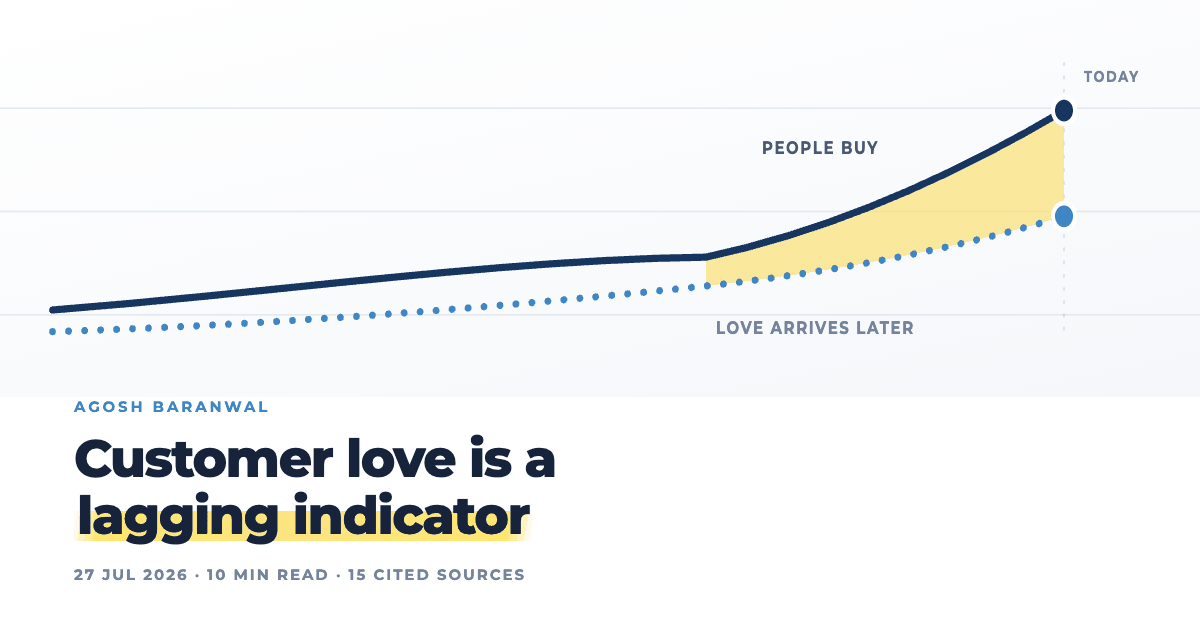
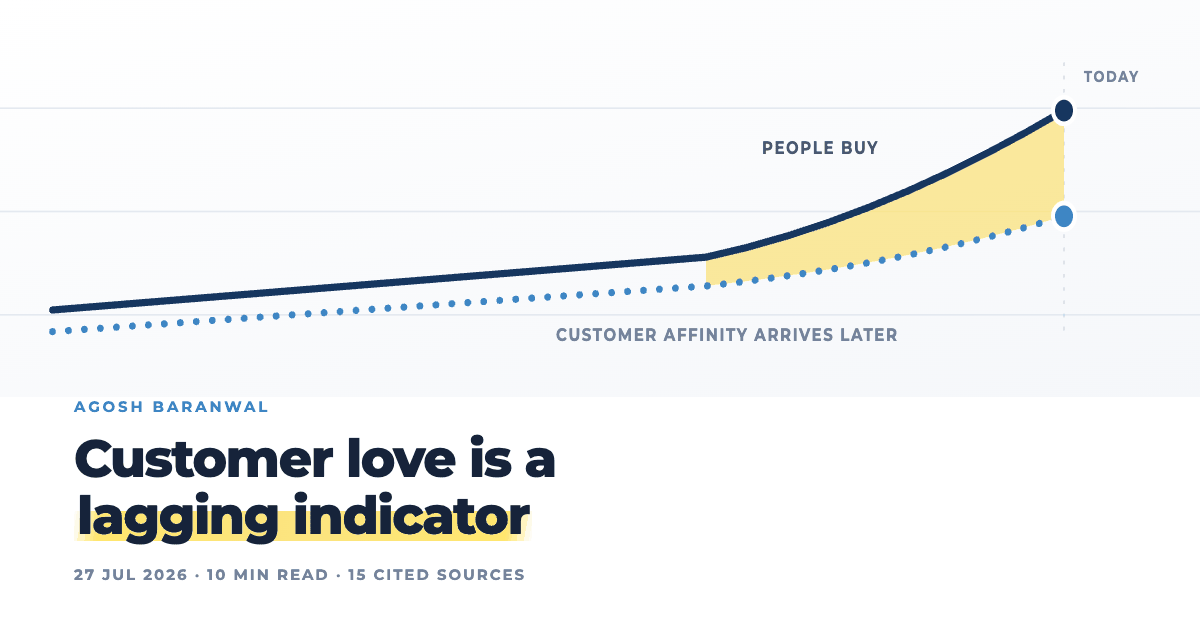
Plainer copy, a straight line before the inflection, and a notice about what is missing
Three things Agosh asked for.

Plain copy, and stop restating the obvious
"Events I have organised" is now "Events organised": on his own site the first
person is already given. The same reading applied everywhere else, so four lead
lines that only restated what the section already showed are gone (the figures
already print their company and period; the two lanes are already labelled
Companies and Education; the press rows already sit under a heading reading
Press). What is left says something the reader cannot see for themselves.

The lines that were punchy rather than informative were rewritten. The contact
block now says what he is open to instead of pitching it. The blog deck dropped
"written against the evidence" for "with every source listed", which is the same
claim stated as a fact. On the Witness page, "Four calls that shaped it" became
"Four design decisions", "Four rooms, and no others" became "The four rooms",
"The week it runs on" became "The weekly loop", and the swipes at other habit
apps came out.

The blog cover
Both lines now run straight to the inflection at x=544 and only bend after it,
so the break is the drawing's subject rather than one curve among several.
"LOVE ARRIVES LATER" reads "CUSTOMER AFFINITY ARRIVES LATER" and moved left to
clear the TODAY marker. og-customer-love.png was redrawn to match.

The notice
A quiet strip under the masthead saying that some parts are unfinished and
[…]

Changed region(s): [[0.0925, 0.3921, 0.5858, 0.5429], [0.4625, 0.5127, 0.7708, 0.5429]]

diff --git a/index.html b/index.html
@@ -44,6 +44,13 @@
 		</header>
 		<main id="main">
 			<div class="wrap">
+				<p class="notice">
+					<span class="dot" aria-hidden="true"></span>
+					<b>Apologies, some parts of this page are not finished</b>
+					<span>The photographs, the press links and a few event dates are still to come</span>
+				</p>
+			</div>
+			<div class="wrap">
 
 				<div class="hero">
 					<h1 class="sr">Agosh Baranwal</h1>
@@ -72,7 +79,6 @@
 				<section class="sec" id="results" aria-labelledby="h-results">
 					<div class="sec-h">
 						<h2 id="h-results">Results</h2>
-						<p class="lead">Each number names the company and the period, so you can ask me about any of them</p>
 					</div>
 					<div class="figs">
 						<div class="fig rv"><span class="n"><span class="hl">10x ROAS</span></span><p>My best return on ad spend</p><p class="src">eFeed &middot; India &middot; 2022&ndash;23</p></div>
@@ -84,7 +90,6 @@
 				<section class="sec" id="worked" aria-labelledby="h-worked">
 					<div class="sec-h">
 						<h2 id="h-worked">Experience and education</h2>
-						<p class="lead">Four companies across India, Sweden and Spain, and the two schools behind the work</p>
 					</div>
 					<div class="ws">
 						<div class="lane rv">
@@ -104,13 +109,13 @@
 							</div>
 						</div>
 					</div>
-					<p class="ws-note">Every role in full, with what it produced, is in the <a href="/cv">CV</a></p>
+					<p class="ws-note">The full detail of each role is in the <a href="/cv">CV</a></p>
 				</section>
 
 				<section class="sec" id="projects" aria-labelledby="h-projects">
 					<div class="sec-h">
 						<h2 id="h-projects">Personal projects</h2>
-						<p class="lead">Six things I built on my own time, and every card opens the real one</p>
+						<p class="lead">All of these were built outside work</p>
 					</div>
 					<div class="projs">
 					<a class="proj rv" href="https://admenow.vercel.app" target="_blank" rel="noopener">
@@ -157,15 +162,15 @@
 						<img class="shot" src="/previews/witness.jpg" alt="A screenshot of Witness on a phone beside its Mac panel" width="640" height="400" loading="lazy" decoding="async" />
 						<span class="body">
 							<span class="top"><span class="p-name">Witness</span><span class="st prog">Private tool</span></span>
-							<span class="p-desc">A check-in tool I built for my own days, across a phone, a browser, a Mac panel and notifications</span>
-							<span class="visit">Built for myself, so here is the tour <span class="go">See it &rarr;</span></span>
+							<span class="p-desc">A check-in tool I built for myself, across a phone, a browser, a Mac panel and notifications</span>
+							<span class="visit">Not public, so this opens a walkthrough <span class="go">See it &rarr;</span></span>
 						</span>
 					</a>
 					</div>
 				</section>
 
 				<section class="sec" id="events" aria-labelledby="h-events">
-					<div class="sec-h"><h2 id="h-events">Events I have organised</h2></div>
+					<div class="sec-h"><h2 id="h-events">Events organised</h2></div>
 					<div class="bill">
 						<article class="poster rv">
 							<div>
@@ -196,13 +201,12 @@
 				<section class="sec" id="press" aria-labelledby="h-press">
 					<div class="sec-h">
 						<h2 id="h-press">Press</h2>
-						<p class="lead">Four pieces covered this work</p>
 					</div>
 					<div class="press-list">
-						<div class="press-row rv"><span class="pr-t">Coverage of the TEDx event I organised</span><span class="about">On the first official TEDx in the district</span></div>
-						<div class="press-row rv"><span class="pr-t">The TEDx programme and its speakers</span><span class="about">On the line-up and how it came together</span></div>
-						<div class="press-row rv"><span class="pr-t">Brainomania, the student quiz</span><span class="about">On the competition and the students who took part</span></div>
-						<div class="press-row rv"><span class="pr-t">eFeed, while I ran growth there</span><span class="about">On the company during my time as marketing lead</span></div>
+						<div class="press-row rv"><span class="pr-t">The TEDx event</span><span class="about">On the first official TEDx in the district</span></div>
+						<div class="press-row rv"><span class="pr-t">The TEDx programme</span><span class="about">On the line-up and how it came together</span></div>
+						<div class="press-row rv"><span class="pr-t">Brainomania</span><span class="about">On the competition and the students who took part</span></div>
+						<div class="press-row rv"><span class="pr-t">eFeed</span><span class="about">On the company during my time as marketing lead</span></div>
 					</div>
 				</section>
 			</div>
@@ -210,7 +214,7 @@
 			<section class="contact" aria-labelledby="h-contact">
 				<div class="wrap inner">
 					<h2 id="h-contact">Write to me</h2>
-					<p class="say">If you are hiring for a growth role, or want someone to run paid and retention for a few months, I would like to hear from you</p>
+					<p class="say">I am open to growth roles, and to running paid and retention on contract</p>
 					<p class="mail"><a href="mailto:agosh.baranwal@alumni.esade.edu?subject=Hello%20Agosh">agosh.baranwal@alumni.esade.edu</a></p>
 					<p class="reply">I read every message and reply within a day</p>
 				<div class="links-row">

diff --git a/projects/witness.html b/projects/witness.html
@@ -62,7 +62,7 @@
 				</div>
 
 				<section class="pj-sec">
-					<h2>The week it runs on</h2>
+					<h2>The weekly loop</h2>
 					<p class="say">The whole product is one loop that starts on Sunday, checks in on Wednesday, and asks ten seconds of you every evening</p>
 					<div class="pj-body">
 						<div class="rail three">
@@ -83,8 +83,8 @@
 				</section>
 
 				<section class="pj-sec">
-					<h2>Four rooms, and no others</h2>
-					<p class="say">Everything in the product sits in one of these four, behind a tab bar on a phone and a rail on a desktop, so wherever you are all four are one press away</p>
+					<h2>The four rooms</h2>
+					<p class="say">Everything in the product sits in one of these four, behind a tab bar on a phone and a rail on a desktop</p>
 					<div class="pj-body">
 						<div class="rail">
 							<figure class="rv">
@@ -108,8 +108,8 @@
 				</section>
 
 				<section class="pj-sec">
-					<h2>Four calls that shaped it</h2>
-					<p class="say">Every habit app I tried scored me, and a bad week wiped the number back to zero, which is exactly the week you are most likely to quit, so I built the opposite</p>
+					<h2>Four design decisions</h2>
+					<p class="say">Every habit app I tried scored me, and a bad week wiped the number back to zero, which is the week you are most likely to quit</p>
 					<div class="pj-body">
 						<div class="calls">
 							<div class="call rv">
@@ -138,19 +138,19 @@
 
 				<section class="pj-sec">
 					<h2>On a computer</h2>
-					<p class="say">The same product on the two surfaces most habit apps never build: a wide browser window, and a menu-bar app for the logging you do while you are already at your desk</p>
+					<p class="say">The same product laid out for a wide browser window, and a menu-bar app for logging while you are already at your desk</p>
 					<div class="pj-body">
 						<div class="two-up">
 							<figure class="rv">
 								<div class="screen"><span class="bar" aria-hidden="true"><i></i><i></i><i></i></span><img src="/projects/witness/desktop-analytics.jpg" alt="The record in a desktop browser, ninety-one days shown as a single grid" width="1600" height="1075" loading="lazy" decoding="async" /></div>
-								<figcaption><b>The browser, on a wide screen</b>One file lays itself out again for the desktop: the tab bar becomes a rail down the side, and ninety-one days fit on one line of sight</figcaption>
+								<figcaption><b>The browser, on a wide screen</b>One file lays itself out again for the desktop, with the tab bar becoming a rail down the side</figcaption>
 							</figure>
 							<div class="rv d1">
 								<div class="pair">
 									<span class="panel"><img src="/projects/witness/panel-today-light.jpg" alt="The Witness Mac menu-bar panel in the light theme" width="640" height="1246" loading="lazy" decoding="async" /></span>
 									<span class="panel"><img src="/projects/witness/panel-dark.jpg" alt="The Witness Mac menu-bar panel in the dark theme" width="640" height="898" loading="lazy" decoding="async" /></span>
 								</div>
-								<p class="panel-cap"><b>The Mac menu bar, not a second website</b>A small Swift app that logs a habit, shows the week and opens the review, with a keyboard shortcut on every row, following the Mac's own light and dark setting and carrying the same words as every other surface</p>
+								<p class="panel-cap"><b>The Mac menu bar</b>A small Swift app that logs a habit, shows the week and opens the review, with a keyboard shortcut on every row, following the Mac's own light and dark setting and carrying the same words as every other surface</p>
 							</div>
 						</div>
 					</div>
@@ -158,12 +158,11 @@
 
 				<section class="pj-sec">
 					<h2>The reminders</h2>
-					<p class="say">The fourth surface, and the one most products treat as an afterthought</p>
 					<div class="pj-body">
 						<div class="bells">
 							<div class="shot rv"><img src="/projects/witness/notif-phone.jpg" alt="A phone lock screen showing Witness reminders, each carrying the state of the thing it is about and two buttons to log it" width="402" height="1042" loading="lazy" decoding="async" /></div>
 							<div class="rv d1">
-								<h3>Every reminder answers the question before you open anything</h3>
+								<h3>A reminder carries the state of the thing it is about</h3>
 								<p>Each one carries the state of the thing it is about, so the notification already tells you where you stand, and the two buttons let you log the day without unlocking further</p>
 								<p>Nothing has to be open for one to arrive, because they are sent by Google's servers at times you set</p>
 								<p>You choose those times, cap how many arrive in a day, hold them until you are at your Mac, and pause everything until a date you pick</p>

diff --git a/blog/index.html b/blog/index.html
@@ -46,7 +46,7 @@
 			<div class="wrap">
 				<div class="page-h">
 					<h1>Blog</h1>
-					<p class="lead">Essays on marketing and growth, written against the evidence</p>
+					<p class="lead">Essays on marketing and growth, with every source listed</p>
 				</div>
 
 				<a class="feature" href="/blog/customer-love-is-a-lagging-indicator">
@@ -59,19 +59,19 @@
 							</g>
 							<line x1="820" y1="66" x2="820" y2="330" stroke="var(--line-strong)" stroke-width="1.5" stroke-dasharray="3 7" />
 							<path d="M544 262 C 650 234 740 178 820 112 L820 218 C 745 248 655 272 544 290 Z" fill="var(--hi-flat)" opacity=".55" />
-							<path d="M40 316 C 210 298 380 262 544 262 C 650 234 740 178 820 112" fill="none" stroke="var(--navy)" stroke-width="5" stroke-linecap="round" />
-							<path d="M40 338 C 230 330 400 306 544 290 C 655 272 745 248 820 218" fill="none" stroke="var(--sky)" stroke-width="5" stroke-linecap="round" stroke-dasharray="1 13" />
+							<path d="M40 316 L 544 262 C 650 234 740 178 820 112" fill="none" stroke="var(--navy)" stroke-width="5" stroke-linecap="round" />
+							<path d="M40 338 L 544 290 C 655 272 745 248 820 218" fill="none" stroke="var(--sky)" stroke-width="5" stroke-linecap="round" stroke-dasharray="1 13" />
 							<circle cx="820" cy="112" r="9" fill="var(--navy)" stroke="var(--card)" stroke-width="3.5" />
 							<circle cx="820" cy="218" r="9" fill="var(--sky)" stroke="var(--card)" stroke-width="3.5" />
 							<g font-family="Montserrat, Helvetica, sans-serif" font-size="13" font-weight="700" letter-spacing="1.4">
 								<text x="588" y="152" fill="var(--ink-mid)">PEOPLE BUY</text>
-								<text x="560" y="330" fill="var(--ink-soft)">LOVE ARRIVES LATER</text>
+								<text x="452" y="334" fill="var(--ink-soft)">CUSTOMER AFFINITY ARRIVES LATER</text>
 								<text x="836" y="86" fill="var(--ink-soft)" font-size="11">TODAY</text>
 							</g>
 						</svg>
 					</span>
 					<span class="body">
-						<span class="kick">Featured essay</span>
+						<span class="kick">Latest essay</span>
 						<span class="f-title">Customer love is a <span class="hl2">lagging indicator</span></span>
 						<span class="f-deck">People buy first and decide whether they like it afterwards, and that order changes where a marketing budget should go</span>
 						<span class="meta"><span>Agosh Baranwal</span><span>27 Jul 2026</span><span>15 cited sources</span><span>Read the essay &rarr;</span></span>

diff --git a/site.css b/site.css
@@ -177,6 +177,17 @@ html.js .rv.in{opacity:1;transform:none}
   .tl-item .place{min-width:5.4em}
 }
 
+/* The unfinished notice. It says out loud that photographs, press links and a
+   few dates are missing, so the empty slots read as pending rather than broken.
+   DELETE IT, and this rule, on the day the last of those lands. */
+.notice{display:flex;flex-wrap:wrap;align-items:baseline;gap:4px 10px;margin:clamp(16px,2vw,24px) 0 0;
+  padding:13px 18px;border:1px solid var(--line);border-radius:12px;background:var(--paper-2);
+  border-left:3px solid;border-image:linear-gradient(180deg,var(--sky),var(--navy)) 1;border-radius:0 12px 12px 0}
+.notice .dot{width:7px;height:7px;border-radius:50%;background:var(--sky);flex:none;align-self:center}
+.notice b{font-size:13.5px;font-weight:700;color:var(--ink)}
+.notice span:last-child{font-size:13.5px;font-weight:500;color:var(--ink-mid)}
+@media (max-width:560px){.notice{padding:12px 15px}}
+
 /* ---------- HOME: results, lanes, projects, events, press ---------- */
 .figs{display:grid;grid-template-columns:repeat(3,minmax(0,1fr));gap:clamp(32px,4.5vw,64px)}
 .fig{border-top:2px solid var(--line-strong);padding-top:24px;display:flex;flex-direction:column}

diff --git a/about.html b/about.html
@@ -46,7 +46,7 @@
 			<div class="wrap">
 				<div class="page-h">
 					<h1>About me</h1>
-					<p class="lead">A few photographs from life outside work, and the best ways to reach me</p>
+					<p class="lead">Photographs from outside work, and how to reach me</p>
 				</div>
 
 				<div class="gallery">
@@ -72,7 +72,7 @@
 
 				<div class="about-contact">
 					<h2>Write to me</h2>
-					<p class="say">If you are hiring for a growth role, or want someone to run paid and retention for a few months, I would like to hear from you</p>
+					<p class="say">I am open to growth roles, and to running paid and retention on contract</p>
 					<p class="mail"><a href="mailto:agosh.baranwal@alumni.esade.edu?subject=Hello%20Agosh">agosh.baranwal@alumni.esade.edu</a></p>
 					<p class="reply">I read every message and reply within a day</p>
 				<div class="links-row">
